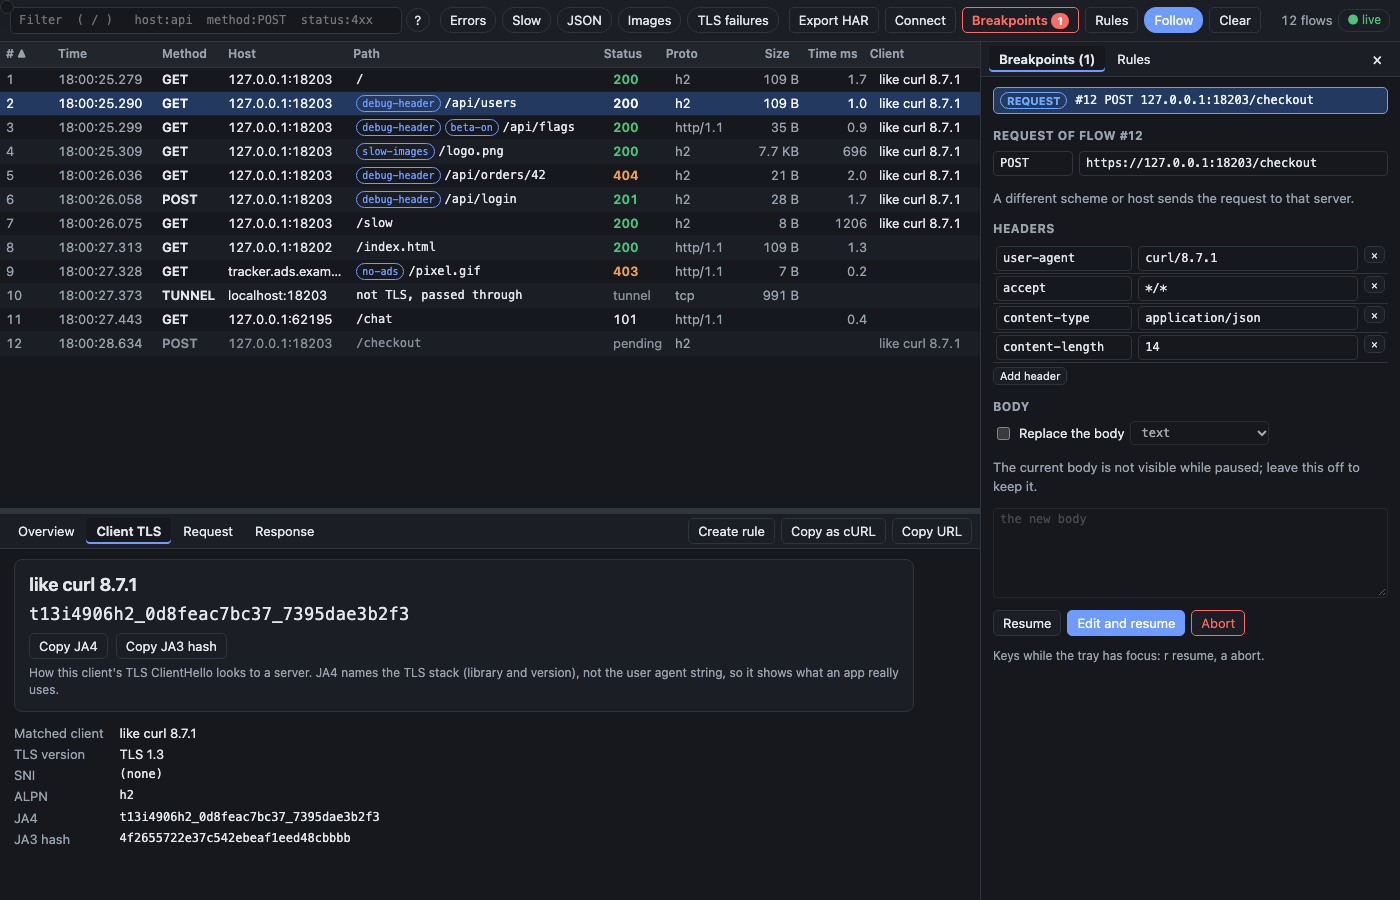
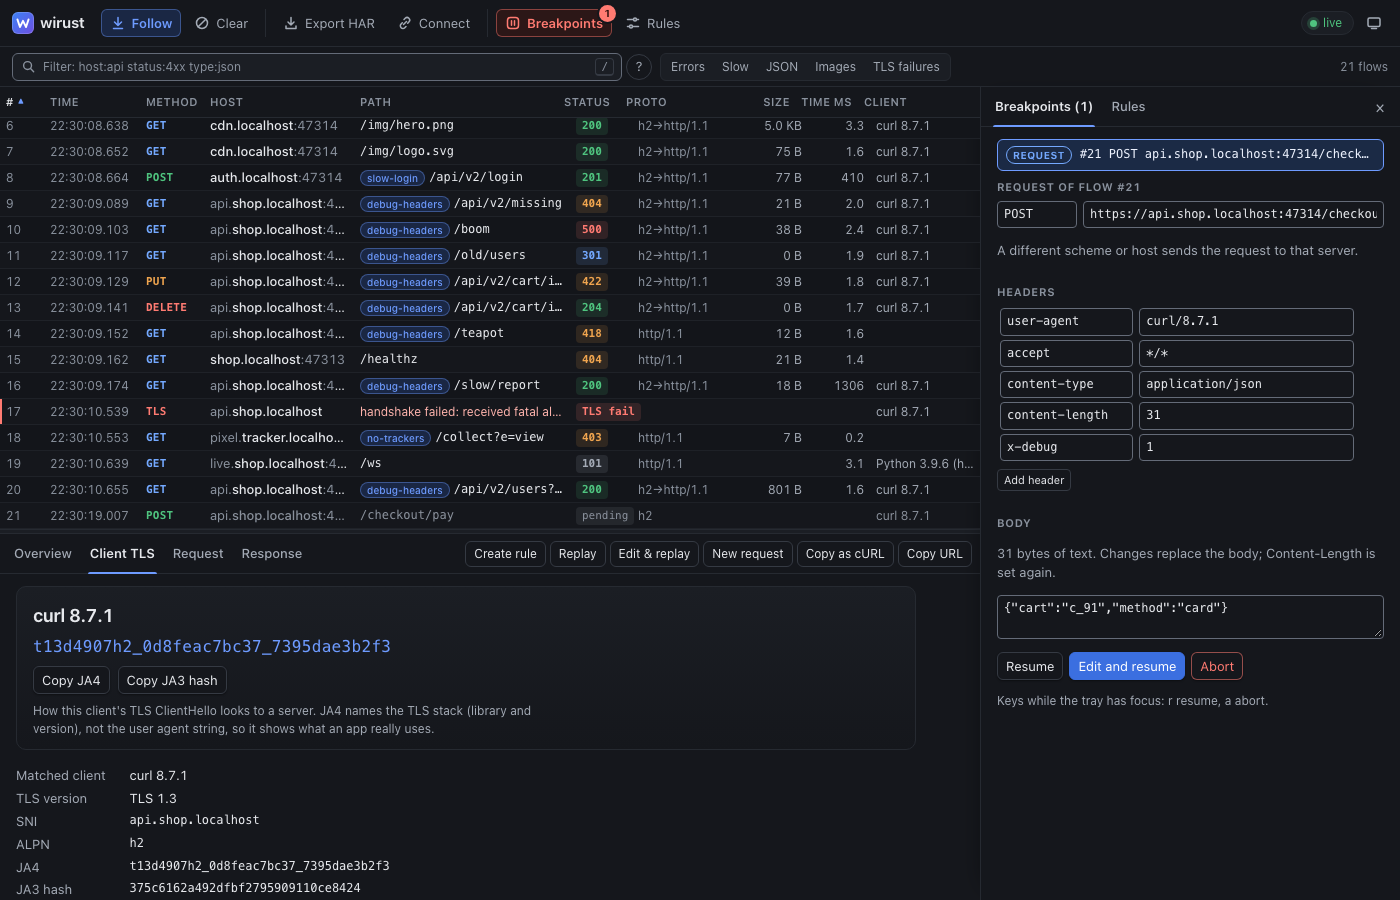
Document the UI tokens and theme, refresh the README screenshots
docs/ui.md describes the toolbar groups, the theme toggle and the narrow layout, and a Styling extensions section lists the tokens and generic classes new UI files should use. Overview shows the method in colour and the status as a pill, the form fields get borders with 3:1 contrast, the page has a favicon, and the three README screenshots show the new look in the same scenes.

diff --git a/crates/proxy/ui/style.css b/crates/proxy/ui/style.css
@@ -12,6 +12,7 @@
   --surface-overlay: light-dark(#ffffff, #1c1f26);
   --line: light-dark(#e3e6eb, #262a31);
   --line-strong: light-dark(#cdd2da, #353a43);
+  --field-border: light-dark(#848b98, #646b78); /* 3:1 on surfaces: form fields */
   --row-alt: light-dark(#fafbfc, #13151a);
   --row-hover: light-dark(#f0f3f8, #1c2027);
   --sel: light-dark(#e3ecfe, #1b2a45);
@@ -22,7 +23,7 @@
   /* Text */
   --fg: light-dark(#16181d, #e7e9ed);
   --fg-muted: light-dark(#555c69, #a4abb6);
-  --fg-subtle: light-dark(#687080, #8a929e);
+  --fg-subtle: light-dark(#5f6775, #8a929e);
   --fg-on-accent: #ffffff;
 
   /* Accent and semantic colours (text-safe on --surface in both themes) */
@@ -34,7 +35,7 @@
   --redirect: light-dark(#1f5fbf, #74a9ff);
   --client-err: light-dark(#9a5000, #f0a54f);
   --server-err: light-dark(#c4231b, #ff7b72);
-  --pending: light-dark(#6b7280, #8a919c);
+  --pending: light-dark(#5c6370, #8a919c);
   --danger: var(--server-err);
   --fail-bg: light-dark(#fdeeec, #2c1717);
   --fail-fg: light-dark(#9b1c14, #ffb4ad);
@@ -54,7 +55,7 @@
   --syn-str: light-dark(#17723a, #7fd49b);
   --syn-num: light-dark(#9a5000, #f4b66a);
   --syn-lit: light-dark(#7a3fc4, #c9a6ff);
-  --syn-punct: light-dark(#687080, #8a929e);
+  --syn-punct: light-dark(#5f6775, #8a929e);
 
   /* Timing waterfall */
   --w-connect: light-dark(#5b8def, #6e9bff);
@@ -133,7 +134,7 @@ body {
 button, input, select, textarea { font: inherit; color: inherit; }
 /* Zero-specificity defaults for form fields; any class rule wins. */
 :where(input:not([type="checkbox"], [type="radio"]), select, textarea) {
-  border: 1px solid var(--line-strong); border-radius: var(--r-1); background: var(--surface);
+  border: 1px solid var(--field-border); border-radius: var(--r-1); background: var(--surface);
   padding: var(--sp-1) var(--sp-3); min-height: 26px;
 }
 :where(input, select, textarea):focus-visible { outline: none; border-color: var(--accent); box-shadow: 0 0 0 3px color-mix(in srgb, var(--accent) 22%, transparent); }
@@ -248,13 +249,13 @@ kbd, .kbd {
 .search input {
   flex: 1; min-width: 0; height: var(--control-h);
   padding: 0 34px 0 30px;
-  border: 1px solid var(--line-strong); border-radius: var(--r-2);
+  border: 1px solid var(--field-border); border-radius: var(--r-2);
   background: var(--surface-2);
   font-family: var(--mono); font-size: var(--fs-sm);
   transition: border-color var(--t-fast) var(--ease), background-color var(--t-fast) var(--ease), box-shadow var(--t-fast) var(--ease);
 }
 .search input::placeholder { color: var(--fg-subtle); font-family: var(--sans); }
-.search input:hover { border-color: var(--fg-subtle); }
+.search input:hover { border-color: var(--fg-muted); }
 .search input:focus { outline: none; background: var(--surface); border-color: var(--accent); box-shadow: 0 0 0 3px color-mix(in srgb, var(--accent) 22%, transparent); }
 .search input[aria-invalid="true"] { border-color: var(--server-err); }
 .search .kbd { position: absolute; right: 38px; top: 50%; transform: translateY(-50%); pointer-events: none; }
@@ -387,6 +388,8 @@ kbd, .kbd {
   font: 600 var(--fs-xs)/18px var(--mono);
 }
 .row .c-status:not(:empty) { padding: 0 6px; border-radius: var(--r-1); background: color-mix(in srgb, currentColor 13%, transparent); }
+.status-pill { display: inline-block; padding: 0 7px; border-radius: var(--r-1); background: color-mix(in srgb, currentColor 13%, transparent); }
+.url-method { font-weight: 700; }
 .s-1 { color: var(--fg-muted); }
 .s-2 { color: var(--ok); }
 .s-3 { color: var(--redirect); }
@@ -499,7 +502,7 @@ img.preview {
 
 /* JSON tree */
 .json-search, input.field, select.field {
-  width: 240px; height: 26px; padding: 0 var(--sp-4); border: 1px solid var(--line-strong); border-radius: var(--r-1);
+  width: 240px; height: 26px; padding: 0 var(--sp-4); border: 1px solid var(--field-border); border-radius: var(--r-1);
   background: var(--surface); font-size: var(--fs-sm);
 }
 .json { font-family: var(--mono); font-size: var(--fs-sm); line-height: 1.6; background: var(--code-bg); border: 1px solid var(--line); padding: var(--sp-4) var(--sp-5); border-radius: var(--r-2); }
@@ -586,7 +589,7 @@ img.preview {
 .field-row { display: flex; gap: var(--sp-3); align-items: center; margin: var(--sp-2) 0; }
 .pause-editor input, .pause-editor select, .pause-editor textarea, .rules-json,
 .replay-dialog input, .replay-dialog select, .replay-dialog textarea {
-  font-family: var(--mono); font-size: var(--fs-sm); padding: var(--sp-2) var(--sp-3); border: 1px solid var(--line-strong);
+  font-family: var(--mono); font-size: var(--fs-sm); padding: var(--sp-2) var(--sp-3); border: 1px solid var(--field-border);
   border-radius: var(--r-1); background: var(--surface); color: var(--fg); min-height: 26px;
   transition: border-color var(--t-fast) var(--ease), box-shadow var(--t-fast) var(--ease);
 }

diff --git a/crates/proxy/ui/index.html b/crates/proxy/ui/index.html
@@ -7,6 +7,7 @@
 <script src="/theme.js"></script>
 <script src="/panels.js" defer></script>
 <title>wirust</title>
[1 lines of base64/hex data omitted]
 <link rel="stylesheet" href="/style.css">
 <script src="/app.js" defer></script>
 <link rel="stylesheet" href="/ws.css">
@@ -38,7 +39,7 @@
     <div class="search">
       <label for="search" class="visually-hidden">Filter flows</label>
       <input id="search" type="search" autocomplete="off" spellcheck="false"
-        placeholder="Filter: host:api method:POST status:4xx type:json or any text"
+        placeholder="Filter: host:api status:4xx type:json"
         aria-describedby="search-help">
       <kbd class="kbd" aria-hidden="true">/</kbd>
       <span id="search-help" class="visually-hidden">Tokens host:, method:, status:, type:; other words match the URL and headers. Press Escape to clear.</span>

diff --git a/crates/proxy/ui/app.js b/crates/proxy/ui/app.js
@@ -800,9 +800,13 @@ function overview(panel, m) {
     return;
   }
   panel.append(h("h3", null, "Request"));
-  panel.append(h("div", "url", (f.method || "") + " " + f.url));
+  const method = h("span", "c-method url-method", f.method || "");
+  method.dataset.method = String(f.method || "").toUpperCase();
+  panel.append(h("div", "url", null, [method, " " + f.url]));
   if (f.error) panel.append(h("div", "error-box", "Error: " + f.error));
-  const status = f.status != null ? f.status + " " + (f.reason || "") : m.state === "pending" ? "in progress" : "";
+  const status = f.status != null
+    ? h("span", "status-pill s-" + Math.floor(f.status / 100), f.status + " " + (f.reason || ""))
+    : m.state === "pending" ? "in progress" : "";
   const flags = f.flags && f.flags.length
     ? h("span", null, null, f.flags.map((x) => h("span", x.startsWith("rule:") ? "badge rule" : "badge", x)))
     : null;

diff --git a/docs/ui.md b/docs/ui.md
@@ -3,9 +3,10 @@
 Start the proxy with `--ui 127.0.0.1:8081` and open the link it prints
 (`http://127.0.0.1:8081/#token=...`). The UI is static files in `crates/proxy/ui/`
 (`index.html`, `app.js` for the list and detail pane, `panels.js` for the side panel and
-popovers, `style.css`, `ws.js` with `ws.css` for the WebSocket Messages tab, and `grpc.js`
-with `grpc.css` for the gRPC tab, see `docs/grpc.md`), embedded
-in the binary and listed in `control::ASSETS`. No build step, no dependencies.
+popovers, `style.css` with the design tokens, `theme.js` for the theme override, `ws.js`
+with `ws.css` for the WebSocket Messages tab, `grpc.js` with `grpc.css` for the gRPC tab,
+see `docs/grpc.md`, and `replay.js` with `replay.css`), embedded in the binary and listed
+in `control::ASSETS`. No build step, no dependencies.
 
 ## What it shows
 
@@ -14,8 +15,11 @@ in the binary and listed in `control::ASSETS`. No build step, no dependencies.
   JA4 when no known client matches. The protocol is the client leg (`h2`, `http/1.1`), and
   when the server leg differs it follows an arrow (`h2→http/1.1`: an HTTP/2 client whose
   server speaks HTTP/1.1); the terminal log prints the same text. A row appears when the
-  request starts (grey, `pending`) and fills in when it ends. Status is coloured by class
-  and always written out as text. TLS handshake failures are red rows with the reason;
+  request starts (grey, `pending`) and fills in when it ends. The method is coloured
+  (GET, POST, PUT, PATCH, DELETE), the status is a pill coloured by class and always
+  written out as text, and the host dims its subdomains and port so the domain stands out
+  (the full host is the cell's tooltip). TLS handshake failures have a red bar at the left
+  edge and the reason in red in the Path column;
   tunnels say `tunnel`, and a TLS tunnel relayed by `--passthrough` shows the client from
   its ClientHello like a decrypted flow does.
 - Up to the store's 5000 flows stay smooth: only the visible rows are in the DOM.
@@ -115,6 +119,18 @@ in the binary and listed in `control::ASSETS`. No build step, no dependencies.
   15 s), or `token missing` / `token rejected: open the link printed in the terminal`.
 - `app.js` exposes `hooks.pause` (SSE events whose name starts with `pause`), `hooks.load`
   (after each load of the store) and `hooks.detail` (the shown flow) for `panels.js`.
+- **Toolbar**: the top row has the name, the buttons grouped by meaning (capture: Follow,
+  Clear; share: Export HAR, Connect; control: Breakpoints, Rules), the connection badge and
+  the theme button; the row below has the filter box (`/` focuses it), the quick filters and
+  the flow count. Below 1180 px the share and control buttons show only their icons (the
+  name stays in the tooltip and the accessible label), below 980 px the capture buttons
+  too, the `#` and Proto columns are dropped and the side panel floats over the list. The
+  page works down to about 760 px wide.
+- **Theme**: the page follows the system light or dark setting. The button at the right of
+  the toolbar cycles system, light, dark; `theme.js` sets `data-theme` on `<html>` before
+  the first paint and keeps the choice in `localStorage` (`wirust.theme`). When storage is
+  unavailable the choice lasts until the page reloads. Transitions are off under
+  `prefers-reduced-motion`.
 
 ## Adding a detail tab
 
@@ -134,6 +150,49 @@ window.registerTab({
 The tab gets the next number key (5, 6, ...). A script that runs before `app.js` pushes the
 same object onto `window.pendingTabs = []` instead. An exception in `render` is shown in the
 pane, not thrown.
+
+## Styling extensions
+
+A new panel, tab, menu or composer should look like the rest without its own colours.
+`style.css` defines the tokens on `:root`; each colour token holds both themes through
+`light-dark()`, so a rule that uses `var(--…)` follows the system setting and the theme
+button. Hard-coded colours and `@media (prefers-color-scheme)` blocks do not follow the
+button.
+
+- Surfaces: `--bg` (page), `--surface`, `--surface-2`, `--surface-3`, `--surface-overlay`
+  (popovers, dialogs), `--code-bg`; lines `--line`, `--line-strong`, `--field-border` (form
+  fields, 3:1 against the surfaces); rows `--row-alt`, `--row-hover`, `--sel`, `--sel-fg`.
+- Text: `--fg`, `--fg-muted`, `--fg-subtle` (all at least 4.5:1 on the surfaces), `--accent`.
+- Meaning: `--ok`, `--redirect`, `--client-err`, `--server-err` (`--danger`), `--pending`,
+  `--fail-bg`/`--fail-fg`, `--warn-bg`, `--hit`; methods `--m-get`, `--m-post`, `--m-put`,
+  `--m-patch`, `--m-delete`, `--m-other`; syntax `--syn-key`, `--syn-str`, `--syn-num`,
+  `--syn-lit`, `--syn-punct`.
+- Scale: spacing `--sp-1` to `--sp-7` (2, 4, 6, 8, 12, 16, 24 px), radii `--r-1`, `--r-2`,
+  `--r-3`, `--r-pill`, type `--fs-xs` to `--fs-xl` (11 to 18 px), fonts `--sans`, `--mono`,
+  elevation `--shadow-1`, `--shadow-2`, motion `--t-fast`, `--t-med`, `--ease`.
+
+Generic classes to reuse instead of new one-off selectors:
+
+| Class | Use |
+|---|---|
+| plain `<button>` | the default bordered button; add `primary`, `danger`, `ghost` or `mini` |
+| `data-icon="export"` (`follow`, `clear`, `connect`, `pause`, `rules`) | a 16 px icon before the label |
+| `toggle` with `aria-pressed` | an on/off button; `toggle switch` for the rule switches |
+| `segmented` (or `chips`) holding `chip` buttons with `aria-pressed` | a quiet segmented filter |
+| `surface` | a raised box: overlay background, border, `--r-3` radius, `--shadow-2` |
+| `popover`, `popover menu` (or `menu`) | a floating panel; a list of actions in it |
+| `badge`, `badge rule` | a small rounded label |
+| `hint`, `notice`, `error-box` | muted text, a warning line, an error block |
+| `url`, `pre.text`, `pre.hex`, `json` | code-like blocks |
+| `table.headers` with `h-name`, `h-value`, `h-copy` | a name/value table (the copy button shows on hover or focus) |
+| `dl.kv` | label and value pairs |
+| `kbd` | a key hint |
+| `field` on `input`/`select` | a compact form field (inputs without a class get the same look) |
+
+A button in the detail pane's toolbar (next to Copy as cURL) goes into `.detail-actions`
+and needs no class; a toolbar button goes into the matching `.btn-group[data-group]`
+(`capture`, `share`, `control`) with `data-icon` and its label in `<span class="btn-label">`
+so narrow windows can hide the label.
 
 ## Keys
 
